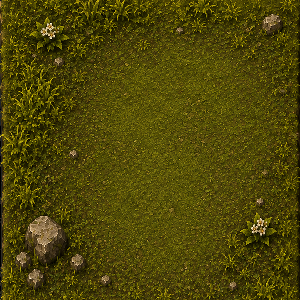
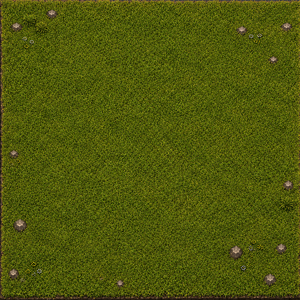
Заменить траву на новую пару вариантов
Обработаны 2 новых рендера (new_grass_1/2 → grass-1/2.png):
убран серый фон, перспектива выправлена в квадрат 300×300 через
Image.transform(QUAD) с суперсэмплингом под LANCZOS-даунскейл.
Старые 8 рендеров с проблемой кучкования камней/цветов по углам
удалены из репозитория, GRASS_TILES в TerrainLayer.tsx сокращён
до 2 вариантов — та же логика рандомного per-клеточного выбора
от terrainSeed, что и раньше.

diff --git a/src/ui/TerrainLayer.tsx b/src/ui/TerrainLayer.tsx
@@ -3,12 +3,6 @@ import { GRID_COLS, GRID_ROWS } from "../data/map";
 import { roadSegmentAt } from "../data/road";
 import grass1 from "../assets/terrain/grass/grass-1.png";
 import grass2 from "../assets/terrain/grass/grass-2.png";
-import grass3 from "../assets/terrain/grass/grass-3.png";
-import grass4 from "../assets/terrain/grass/grass-4.png";
-import grass5 from "../assets/terrain/grass/grass-5.png";
-import grass6 from "../assets/terrain/grass/grass-6.png";
-import grass7 from "../assets/terrain/grass/grass-7.png";
-import grass8 from "../assets/terrain/grass/grass-8.png";
 import roadStraight from "../assets/terrain/road/road-straight.png";
 import roadCorner2 from "../assets/terrain/road/road-corner-2.png";
 import roadCorner3 from "../assets/terrain/road/road-corner-3.png";
@@ -18,7 +12,7 @@ interface Props {
   terrainSeed: number;
 }
 
-const GRASS_TILES = [grass1, grass2, grass3, grass4, grass5, grass6, grass7, grass8];
+const GRASS_TILES = [grass1, grass2];
 
 // Угол дороги обработан в ориентации "N+E" (вход сверху, выход справа) — для
 // остальных трёх поворотов просто крутим тот же файл на 90°/180°/270° (CSS